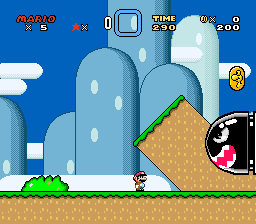
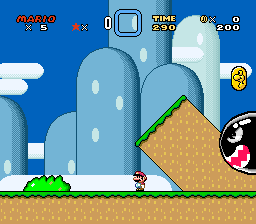
fix(widescreen): feed the accuracy-exact bundle the middle of a widened line
FrameBundleBuilder kept the FIRST 256 dots of a widened SNES line (512
wide at 32:9), i.e. the left margin, so every stitched canvas (the W30-03
composite and the W31-07 per-layer ones) was fed a frame shifted by the
pad: repeated terrain about 128 px off after scrolling. New CoreSink
method video_scanline_widened(y, pixels, pad) (default = video_scanline);
the SNES core calls it for widened lines, CountingSink forwards it, and
FanoutSink gives the picture the whole line and the bundle the middle.
Regression test a_widened_line_gives_the_bundle_its_middle. Also: row
backdrop = most common displayed colour; tour widescreen shot now the
stitched canvas (VRAM kept as a probe).

diff --git a/crates/retroforge/src/core_thread.rs b/crates/retroforge/src/core_thread.rs
@@ -1155,6 +1155,19 @@ impl rf_core_api::CoreSink for FanoutSink<'_> {
         self.bundle.video_scanline(y, pixels);
     }
 
+    /// A widened line: the picture (and layer split) get all of it, the
+    /// accuracy-exact bundle only the console's own middle 256 dots.
+    fn video_scanline_widened(&mut self, y: u16, pixels: &[rf_core_api::PpuPixel], pad: usize) {
+        self.frame.video_scanline(y, pixels);
+        if let Some(layers) = self.layers.as_mut() {
+            layers.video_scanline(y, pixels);
+        }
+        let middle = pixels
+            .get(pad..pad + usize::from(self.bundle.width()))
+            .unwrap_or(pixels);
+        self.bundle.video_scanline(y, middle);
+    }
+
     /// Ticket W7-21: the sub-screen, to the frame (the layer split is a
     /// debug view of the indexed screens and does not blend).
     fn sub_scanline(&mut self, y: u16, pixels: &[rf_core_api::SubPixel], fixed_color: u16) {
@@ -2310,6 +2323,36 @@ mod tests {
     /// to exercise [`publish_frame`]'s bookkeeping without needing a real
     /// stepped frame's actual pixels, which `publish_frame` never looks
     /// at.
+    /// A widened (widescreen) line reaches the accuracy-exact bundle as the
+    /// console's own middle 256 dots, not the first 256 (which are margin):
+    /// the shift that made stitched canvases repeat terrain (2026-10-16).
+    #[test]
+    fn a_widened_line_gives_the_bundle_its_middle() {
+        use rf_core_api::CoreSink as _;
+        let mut frame = rf_renderer::FrameBuffer::new();
+        let mut bundle = rf_core_api::FrameBundleBuilder::new(256, 1);
+        let pad = 128usize;
+        let line: Vec<rf_core_api::PpuPixel> = (0..256 + 2 * pad)
+            .map(|x| rf_core_api::PpuPixel {
+                palette_index: (x % 251) as u8,
+                layer: rf_core_api::PixelLayer::Background(0),
+                sprite_id: None,
+                priority: 0,
+            })
+            .collect();
+        FanoutSink {
+            frame: &mut frame,
+            layers: None,
+            bundle: &mut bundle,
+            audio: None,
+            overlay: None,
+        }
+        .video_scanline_widened(0, &line, pad);
+        let video = bundle.take(0).video;
+        assert_eq!(video[0].palette_index, (pad % 251) as u8);
+        assert_eq!(video[255].palette_index, ((pad + 255) % 251) as u8);
+    }
+
     /// A distinct polygon job, told apart by its `bpp`.
     fn gsu_job(tag: u8) -> Arc<rf_core_api::gsu_poly::PolyJob> {
         Arc::new(rf_core_api::gsu_poly::PolyJob {

diff --git a/crates/rf-core-api/src/core.rs b/crates/rf-core-api/src/core.rs
@@ -104,6 +104,19 @@ pub trait CoreSink {
     /// RGB — see [`crate::video`].
     fn video_scanline(&mut self, y: u16, pixels: &[PpuPixel]);
 
+    /// A WIDENED (widescreen) scanline: `pixels` is the console's own
+    /// picture with `pad` extra dots on each side (an opt-in presentation
+    /// overlay, never in Accuracy Mode). The default treats it as a plain
+    /// [`Self::video_scanline`]; a sink that keeps an accuracy-exact frame
+    /// (`FrameBundle`) overrides it to take only the middle, because the
+    /// first `width` dots of a widened line are NOT the console's picture
+    /// (fix 2026-10-16: stitched canvases were fed frames shifted by the
+    /// pad).
+    fn video_scanline_widened(&mut self, y: u16, pixels: &[PpuPixel], pad: usize) {
+        let _ = pad;
+        self.video_scanline(y, pixels);
+    }
+
     /// One scanline's worth of overlay-only pixels (ticket W3-05a; see
     /// [`crate::video::OverlayPixel`]'s doc) — sprites the hardware
     /// per-scanline limit dropped, for a consumer that opted into drawing

diff --git a/crates/retroforge/src/stepper.rs b/crates/retroforge/src/stepper.rs
@@ -141,6 +141,14 @@ impl CoreSink for CountingSink<'_> {
         self.inner.video_scanline(y, pixels);
     }
 
+    /// Forwarded explicitly (the default would lose the pad at this seam,
+    /// the same trap as `overlay_scanline` below).
+    fn video_scanline_widened(&mut self, y: u16, pixels: &[rf_core_api::PpuPixel], pad: usize) {
+        self.scanlines += 1;
+        self.last_scanline = Some(y);
+        self.inner.video_scanline_widened(y, pixels, pad);
+    }
+
     /// Ticket W3-05a: MUST forward explicitly, not rely on
     /// `CoreSink::overlay_scanline`'s default no-op — this wrapper sits
     /// between every `EmuStepper` caller and the real sink (`FrameBuffer`

diff --git a/crates/rf-snes/src/core.rs b/crates/rf-snes/src/core.rs
@@ -447,7 +447,12 @@ impl SnesCore {
                 };
                 sink.sub_scanline(y, &sub, fixed_color);
             }
-            sink.video_scanline(y, &line.pixels);
+            if wide_line {
+                let pad = line.pixels.len().saturating_sub(crate::ppu::WIDTH) / 2;
+                sink.video_scanline_widened(y, &line.pixels, pad);
+            } else {
+                sink.video_scanline(y, &line.pixels);
+            }
             sink.overlay_scanline(y, &line.overlay);
         }
         // Ticket W16-09: promote the Mode 7 matrix to the generic

diff --git a/crates/rf-core-api/src/frame_bundle.rs b/crates/rf-core-api/src/frame_bundle.rs
@@ -159,6 +159,12 @@ pub struct FrameBundleBuilder {
 }
 
 impl FrameBundleBuilder {
+    /// The frame width in dots (the console's own picture).
+    #[must_use]
+    pub fn width(&self) -> u16 {
+        self.width
+    }
+
     #[must_use]
     pub fn new(width: u16, height: u16) -> Self {
         FrameBundleBuilder {
